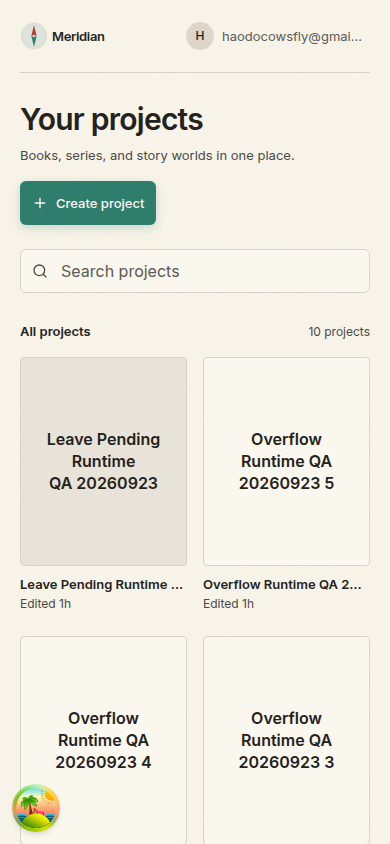
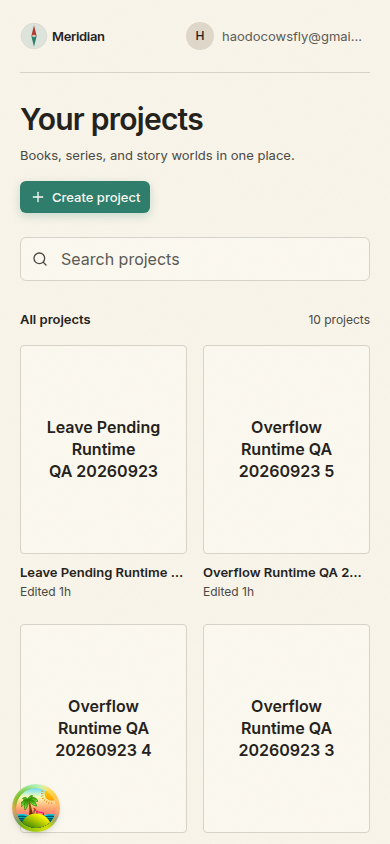
Unify placeholder covers and creation button sizing

diff --git a/apps/app/src/features/home/ProjectLibrary.tsx b/apps/app/src/features/home/ProjectLibrary.tsx
@@ -13,8 +13,6 @@ import { AccountMenu } from "@/features/account/AccountMenu";
 import { formatRelativeTime } from "@/lib/date-groups";
 import { displayProjectTitle } from "@/lib/project-title";
 
-const COVER_TONES = ["bg-secondary", "bg-card"] as const;
-
 export function ProjectLibrary() {
   const { projects, isError, refetch } = useProjectListStatus();
   const independentIds = useIndependentProjectIds();
@@ -54,7 +52,7 @@ export function ProjectLibrary() {
                 <Trans>Books, series, and story worlds in one place.</Trans>
               </p>
             </div>
-            <Button asChild className="min-h-11">
+            <Button asChild size="sm" className="[@media(pointer:coarse)]:min-h-11">
               <Link to="/projects/new" preload="render">
                 <Plus aria-hidden /> <Trans>Create project</Trans>
               </Link>
@@ -127,7 +125,6 @@ export function ProjectLibrary() {
                 <ul className="grid grid-cols-2 gap-x-4 gap-y-6 sm:grid-cols-3 sm:gap-x-6">
                   {matches.map((project) => {
                     const title = displayProjectTitle(project.title);
-                    const tone = COVER_TONES[project.slug.charCodeAt(0) % COVER_TONES.length];
                     return (
                       <li key={project.id} className="min-w-0">
                         <Link
@@ -136,9 +133,7 @@ export function ProjectLibrary() {
                           className="group focus-ring block rounded-md"
                           aria-label={t`Open ${title}`}
                         >
-                          <div
-                            className={`flex aspect-[4/5] items-center justify-center rounded-sm border border-border p-4 text-center transition-transform duration-200 ease-out group-hover:-translate-y-1 motion-reduce:transition-none motion-reduce:transform-none ${tone}`}
-                          >
+                          <div className="flex aspect-[4/5] items-center justify-center rounded-sm border border-border bg-card p-4 text-center transition-transform duration-200 ease-out group-hover:-translate-y-1 motion-reduce:transition-none motion-reduce:transform-none">
                             <span className="max-w-full text-balance break-words text-base font-semibold leading-snug sm:text-lg">
                               {title}
                             </span>

diff --git a/apps/app/src/features/project/context/RecentDocumentsLanding.tsx b/apps/app/src/features/project/context/RecentDocumentsLanding.tsx
@@ -110,7 +110,12 @@ export function RecentDocumentsLanding({
               <Trans>Recently opened</Trans>
             </h2>
           </div>
-          <Button size="sm" onClick={onNewDocument} disabled={!onNewDocument}>
+          <Button
+            size="sm"
+            className="[@media(pointer:coarse)]:min-h-11"
+            onClick={onNewDocument}
+            disabled={!onNewDocument}
+          >
             <FilePlus aria-hidden />
             <Trans>New document</Trans>
           </Button>
@@ -343,7 +348,12 @@ function LandingEmpty({ onNewDocument }: { onNewDocument?: () => void }) {
       <p className="mt-1 text-xs text-muted-foreground">
         <Trans>Open a document from the project tree, or start a new one.</Trans>
       </p>
-      <Button size="sm" className="mt-5" onClick={onNewDocument} disabled={!onNewDocument}>
+      <Button
+        size="sm"
+        className="mt-5 [@media(pointer:coarse)]:min-h-11"
+        onClick={onNewDocument}
+        disabled={!onNewDocument}
+      >
         <FilePlus aria-hidden />
         <Trans>New document</Trans>
       </Button>

diff --git a/apps/app/src/features/home/NewProjectView.tsx b/apps/app/src/features/home/NewProjectView.tsx
@@ -105,7 +105,12 @@ export function NewProjectView() {
                 )}
               </p>
             )}
-            <Button type="submit" className="mt-6 min-h-11" disabled={busy || !title.trim()}>
+            <Button
+              type="submit"
+              size="sm"
+              className="mt-6 [@media(pointer:coarse)]:min-h-11"
+              disabled={busy || !title.trim()}
+            >
               {busy ? (
                 <Trans>Creating project…</Trans>
               ) : createdSlug ? (

diff --git a/CHANGELOG.md b/CHANGELOG.md
@@ -9,7 +9,7 @@
 
 ### Changed
 
-- Keep project cover placeholders on the existing neutral surface ladder; remove the dead account Home width and rename the still-used project screen width and container.
+- Use one existing card surface for all title-only project covers. Match Create project and New document actions to New Work's compact desktop button and 44px coarse-pointer target. Remove the dead account Home width and rename the still-used project screen width and container.
 - Remove the unused account project-home redirect endpoint and its wire contract; drop the unconsumed last-active-project preference from user persistence.
 - Open a searchable project library at the signed-in base URL. Create a named project from a separate destination; open any project directly in Chat. Remove the account Home composer and quick-chat entry.
 - Make Chat the only in-project landing at `/p/:slug`, combining the composer with Continue, Favorite, and Recent; remove the duplicate project Home and `/chats` destination. Project wordmarks now return to the account library.
